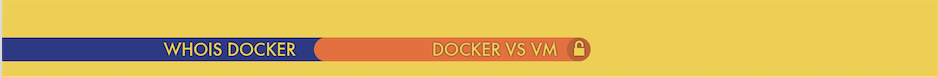
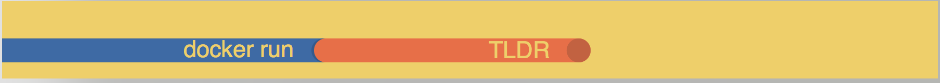
Devoxx version

Changed region(s): [[0.0, 0.4416, 0.6493, 0.8312], [0.0, 0.0, 1.0, 1.0]]

diff --git a/Devoxx/index.html b/Devoxx/index.html
@@ -70,7 +70,7 @@
 					</section>
 
 					<section>
-					<h2>Whois Docker</h2>
+					<h2>docker run</h2>
 					<p><img src="./images/A1.png" /></a>
 					</p>
 					<p><img src="./images/A2.png" /></a>
@@ -80,7 +80,7 @@
 					</section>
 					
 					<section>
-					<h2>Docker 4 InfoSec</h2>
+					<h2>docker pause</h2>
 					<p><img src="./images/B1.png" /></a>
 					</p>
 					<p><img src="./images/B2.png" /></a>
@@ -90,7 +90,7 @@
 					</section>
 					
 					<section>
-					<h2>HackerZ 4 Docker</h2>
+					<h2>docker build</h2>
 					<p><img src="./images/C1.png" /></a>
 					</p>
 					<p><img src="./images/C2.png" /></a>
@@ -193,19 +193,13 @@
 
 
 				<section>
-				<section data-background="./images/hat-nav-A1.png">
+				<section data-background="./images/nav-A1.png">
 				<img height="505" src="./images/VM-Diagram.png" />
 				</section>
-				<section data-background="./images/hat-nav-A2.png">
-				<img height="505" src="./images/ARM.jpg" />
-				</section>
-				<section data-background="./images/hat-nav-A2.png">
-				<img height="505" src="./images/browser-pi-hypriot-logo.png" />
+				
 				</section>
 
-				</section>
-
-				<section data-background="./images/hat-nav-A2.png">
+				<section data-background="./images/nav-A2.png">
 				<section>
 
 					<img height=600 src="./images/DevOpsSchema.png" />
@@ -215,78 +209,94 @@
 					<img src="./images/DevOps.png" />
 				</section>
 				
-				
-				<section data-background="./images/hat-nav-A2.png">
-				<br>
-				<img height="100" src="./images/scaleway11.jpg" /><br>
-				<img src="./images/scaleway1.jpg" />
-				
 				</section>
 
-				
-				<section data-background="./images/hat-nav-A2.png">
+				<section>	
+				<section data-background="./images/nav-A3.png">
+				<img height="505" src="./images/ARM.jpg" />
+				</section>
+				<section data-background="./images/nav-A3.png">
+				<img height="505" src="./images/browser-pi-hypriot-logo.png" />
+				</section>
+				<section data-background="./images/nav-A3.png">
+				<img height="100" src="./images/scaleway11.jpg" /><br>
+				<img src="./images/scaleway1.jpg" />
+				</section>
+				<section data-background="./images/nav-A3.png">
 				<img height="505" src="./images/scaleway2.jpg" />
 				</section>
 				
-				
-				
-				</section>
-				<section data-background="./images/hat-nav-A3.png">
-				<aside class="notes">
-						Laus sur une lecture d'un DockerFile, sur sa paramètrisation, et la la taille des images (+ layer = Docker history image).
-					</aside>
 				</section>
 
-
-				<section data-background="./images/hat-nav-B1.png">
 				<section>
-					<a href="https://www.yogosha.com/">
+				<section data-background="./images/nav-B0.png">
+				
+					<img height="505" src="./images/hackers.jpg" />
+				
+				</section>
+				<section data-background="./images/nav-B0.png">
+				
+					<img height="505" src="./images/UOYGN.png" />
+				
+				</section>
+				</section>
+
+				<section data-background="./images/nav-B1.png">
+				<section>
+					
 					<img height="505" src="./images/BH.png" />
-					</a>
-				</section>
-				<section>
-					
-				<video controls>
-  				<source src="./images/VogonFR.mp4" type="video/mp4">
-				Your browser does not support the video tag.
-
-				</video>
-				</section>
 					
 				</section>
-				<section data-background="./images/hat-nav-B2.png">
+	
+				</section>
+				<section data-background="./images/nav-B2.png">
 				<section>
-					<img src="./images/DevOpSec.png" />
-					</a>
+					<img src="./images/flocker2.png" />
+					<!-- Un slide sur flocker, un slide sur BT Syncthing +-->
 				</section>
-				
-				</section>
-				<section data-background="./images/hat-nav-B3.png">
-				
-				</section>
-				<section data-background="./images/hat-nav-C1.png">
 				<section>
-					<a href="https://www.yogosha.com/">
-					<img src="./images/oui.png" />
-					</a>
+					<img src="./images/BTSync.png" />
+					<!-- Un slide sur flocker, un slide sur BT Syncthing +-->
 				</section>
 				
 				</section>
-				<section data-background="./images/hat-nav-C2.png">
 				<section>
-					<a href="https://www.yogosha.com/">
-					<img height="505" src="./images/Netscape.png" />
-					</a>
+				<section data-background="./images/nav-B3.png">
+				<img height="505" src="./images/SecuAgile.jpg" />
+				<!-- Image secu + DevOpsSec + Demo +-->
 				</section>
 				
+				<section data-background="./images/nav-B3.png">
+				<img height="505" src="./images/DevOpSec.png" />
+				<!-- Image secu + DevOpsSec + Demo +-->
 				</section>
-				<section data-background="./images/hat-nav-C3.png">
+				<section data-background="./images/nav-B3.png">
 				<video controls>
   				<source src="./images/video.mkv" type="video/mp4">
 				Your browser does not support the video tag.
 
 				</video>
 				</section>
+
+				</section>
+				<section data-background="./images/nav-C1.png">
+				<!-- 1 serveur 3 layers +-->
+				<section>
+					<img src="./images/3Layers.png" />
+					</a>
+				</section>
+				
+				</section>
+				<section data-background="./images/nav-C2.png">
+				<!-- Slide archi globale + outils +-->
+				<section>
+					
+					<img height="505" src="./images/Archi.png" />
+					
+				</section>
+				
+				</section>
+				
 				<section>
 				<section>
 					<img height="505" src="./images/toolong.gif" />

diff --git a/index.html b/index.html
@@ -7,10 +7,10 @@
       <link rel="stylesheet" href="css/normalize.css">
       <link rel="stylesheet" href="css/style.css">
       <style type="text/css" media="screen">
-         html { 
+         html {
          margin:0;
          padding:0;
-         background: url(back.jpg) no-repeat center fixed; 
+         background: url(back.jpg) no-repeat center fixed;
          -webkit-background-size: cover; /* pour anciens Chrome et Safari */
          background-size: cover; /* version standardisée */
          }
@@ -22,7 +22,7 @@
             <center>
                <h1>H.A.T</h1>
                <i>
-                  <h4>Rainbow-Hat Hacker / "Digital Storyteller"</h4>
+                  <h4>"Digital Doctor"</h4>
                   <h6>Timeline</h6>
                </i>
             </center>
@@ -32,7 +32,7 @@
             <ul>
             <li>
                <h3>Hitch's Hacker Guide to Docker's Galaxy</h3>
-               <p><a href="#">Dev Version</a> @ <a href="https://www.devoxx.fr/">Devoxx ~ Paris</a></p>
+               <p><a href="./Devoxx/index.html">Dev Version</a> @ <a href="https://www.devoxx.fr/">Devoxx ~ Paris</a></p>
                <time>21/04/2016</time>
             </li>
             <li>
